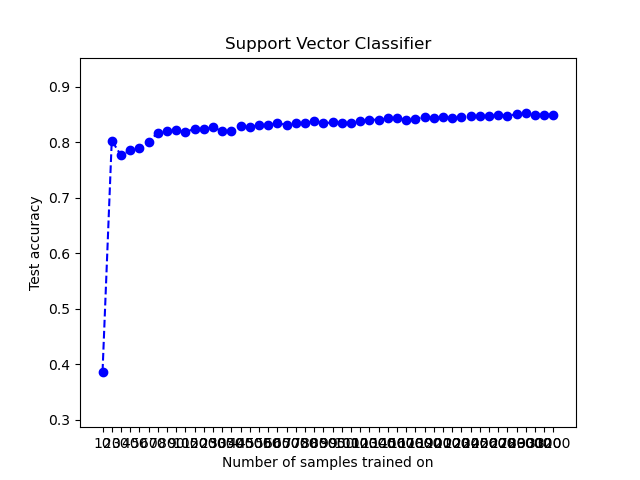
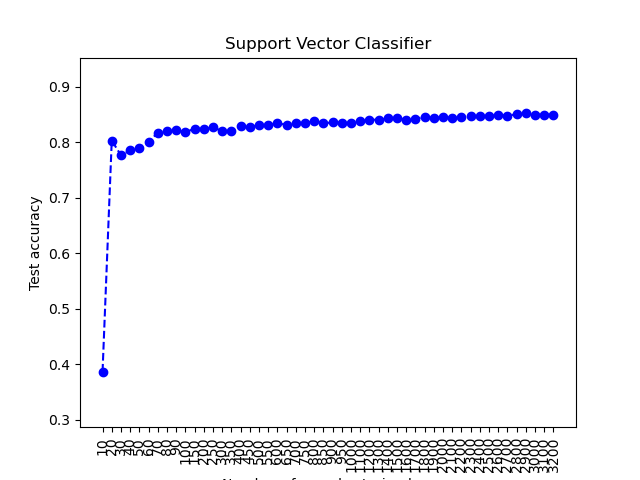
simple classifiers

Changed region(s): [[0.125, 0.9062, 0.9062, 1.0]]

diff --git a/transfer_learning.py b/transfer_learning.py
@@ -22,7 +22,7 @@ def save_accuracy_plot(accuracies, n_samples, method):
     plt.plot(xi, accuracies, marker="o", linestyle="--", color="b")
     plt.xlabel("Number of samples trained on")
     plt.ylabel("Test accuracy")
-    plt.xticks(xi, n_samples)
+    plt.xticks(xi, n_samples, rotation=90)
     plt.title(method)
     #plt.legend()
     plt.savefig("accuracy_" + method + ".png")
